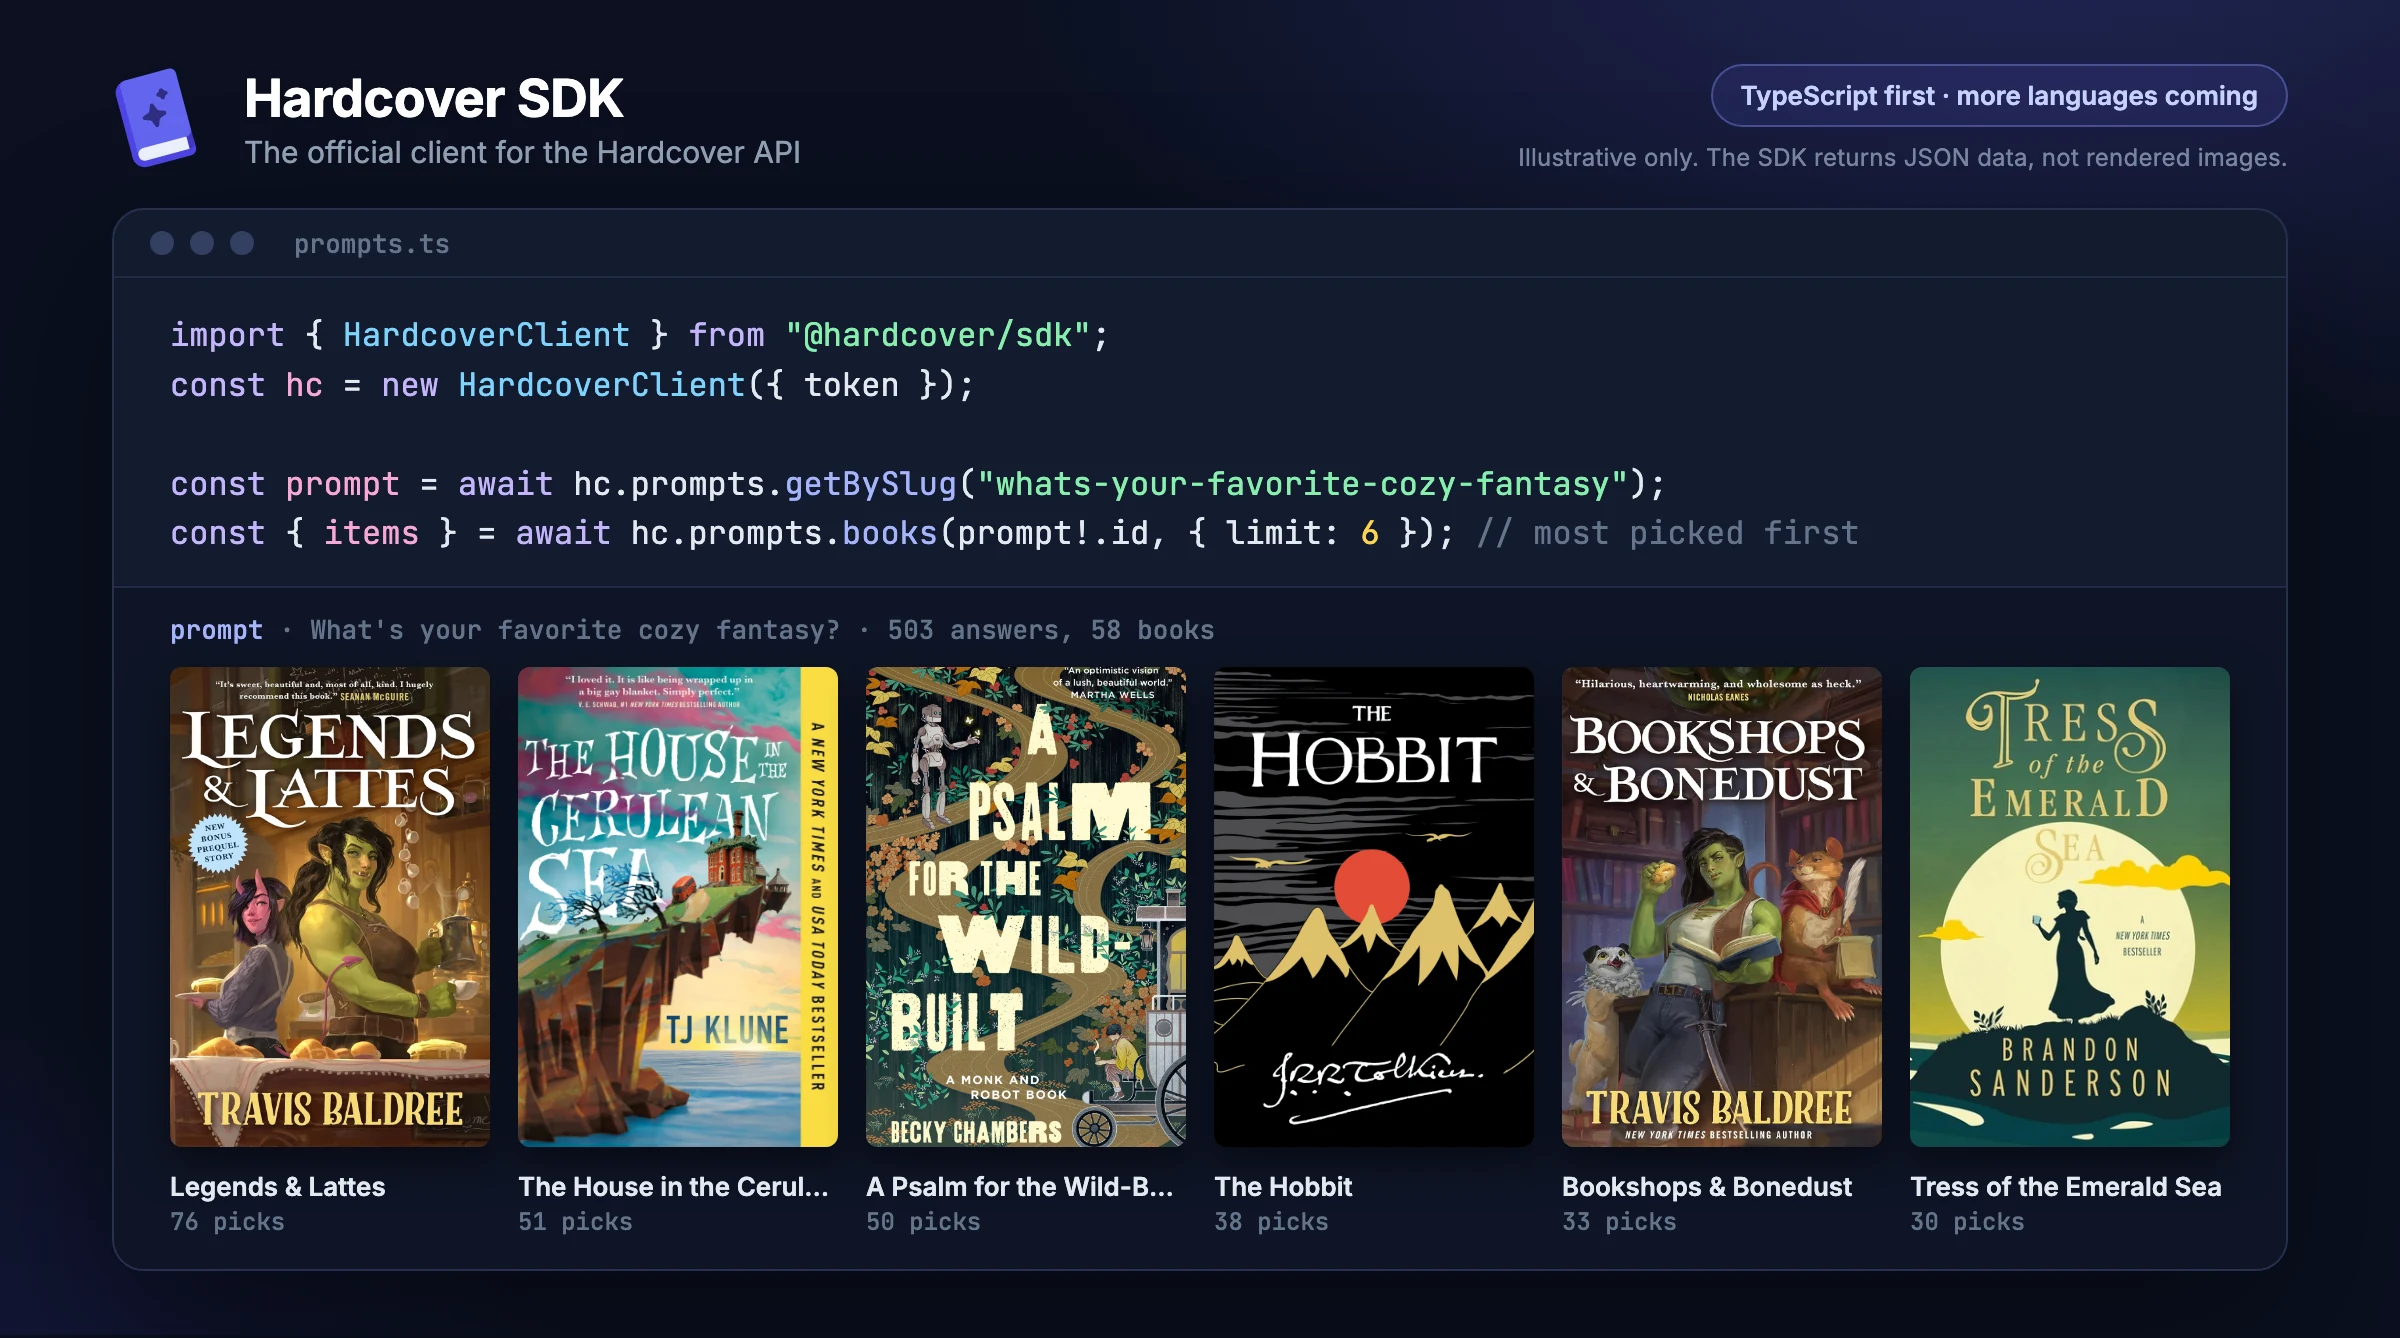
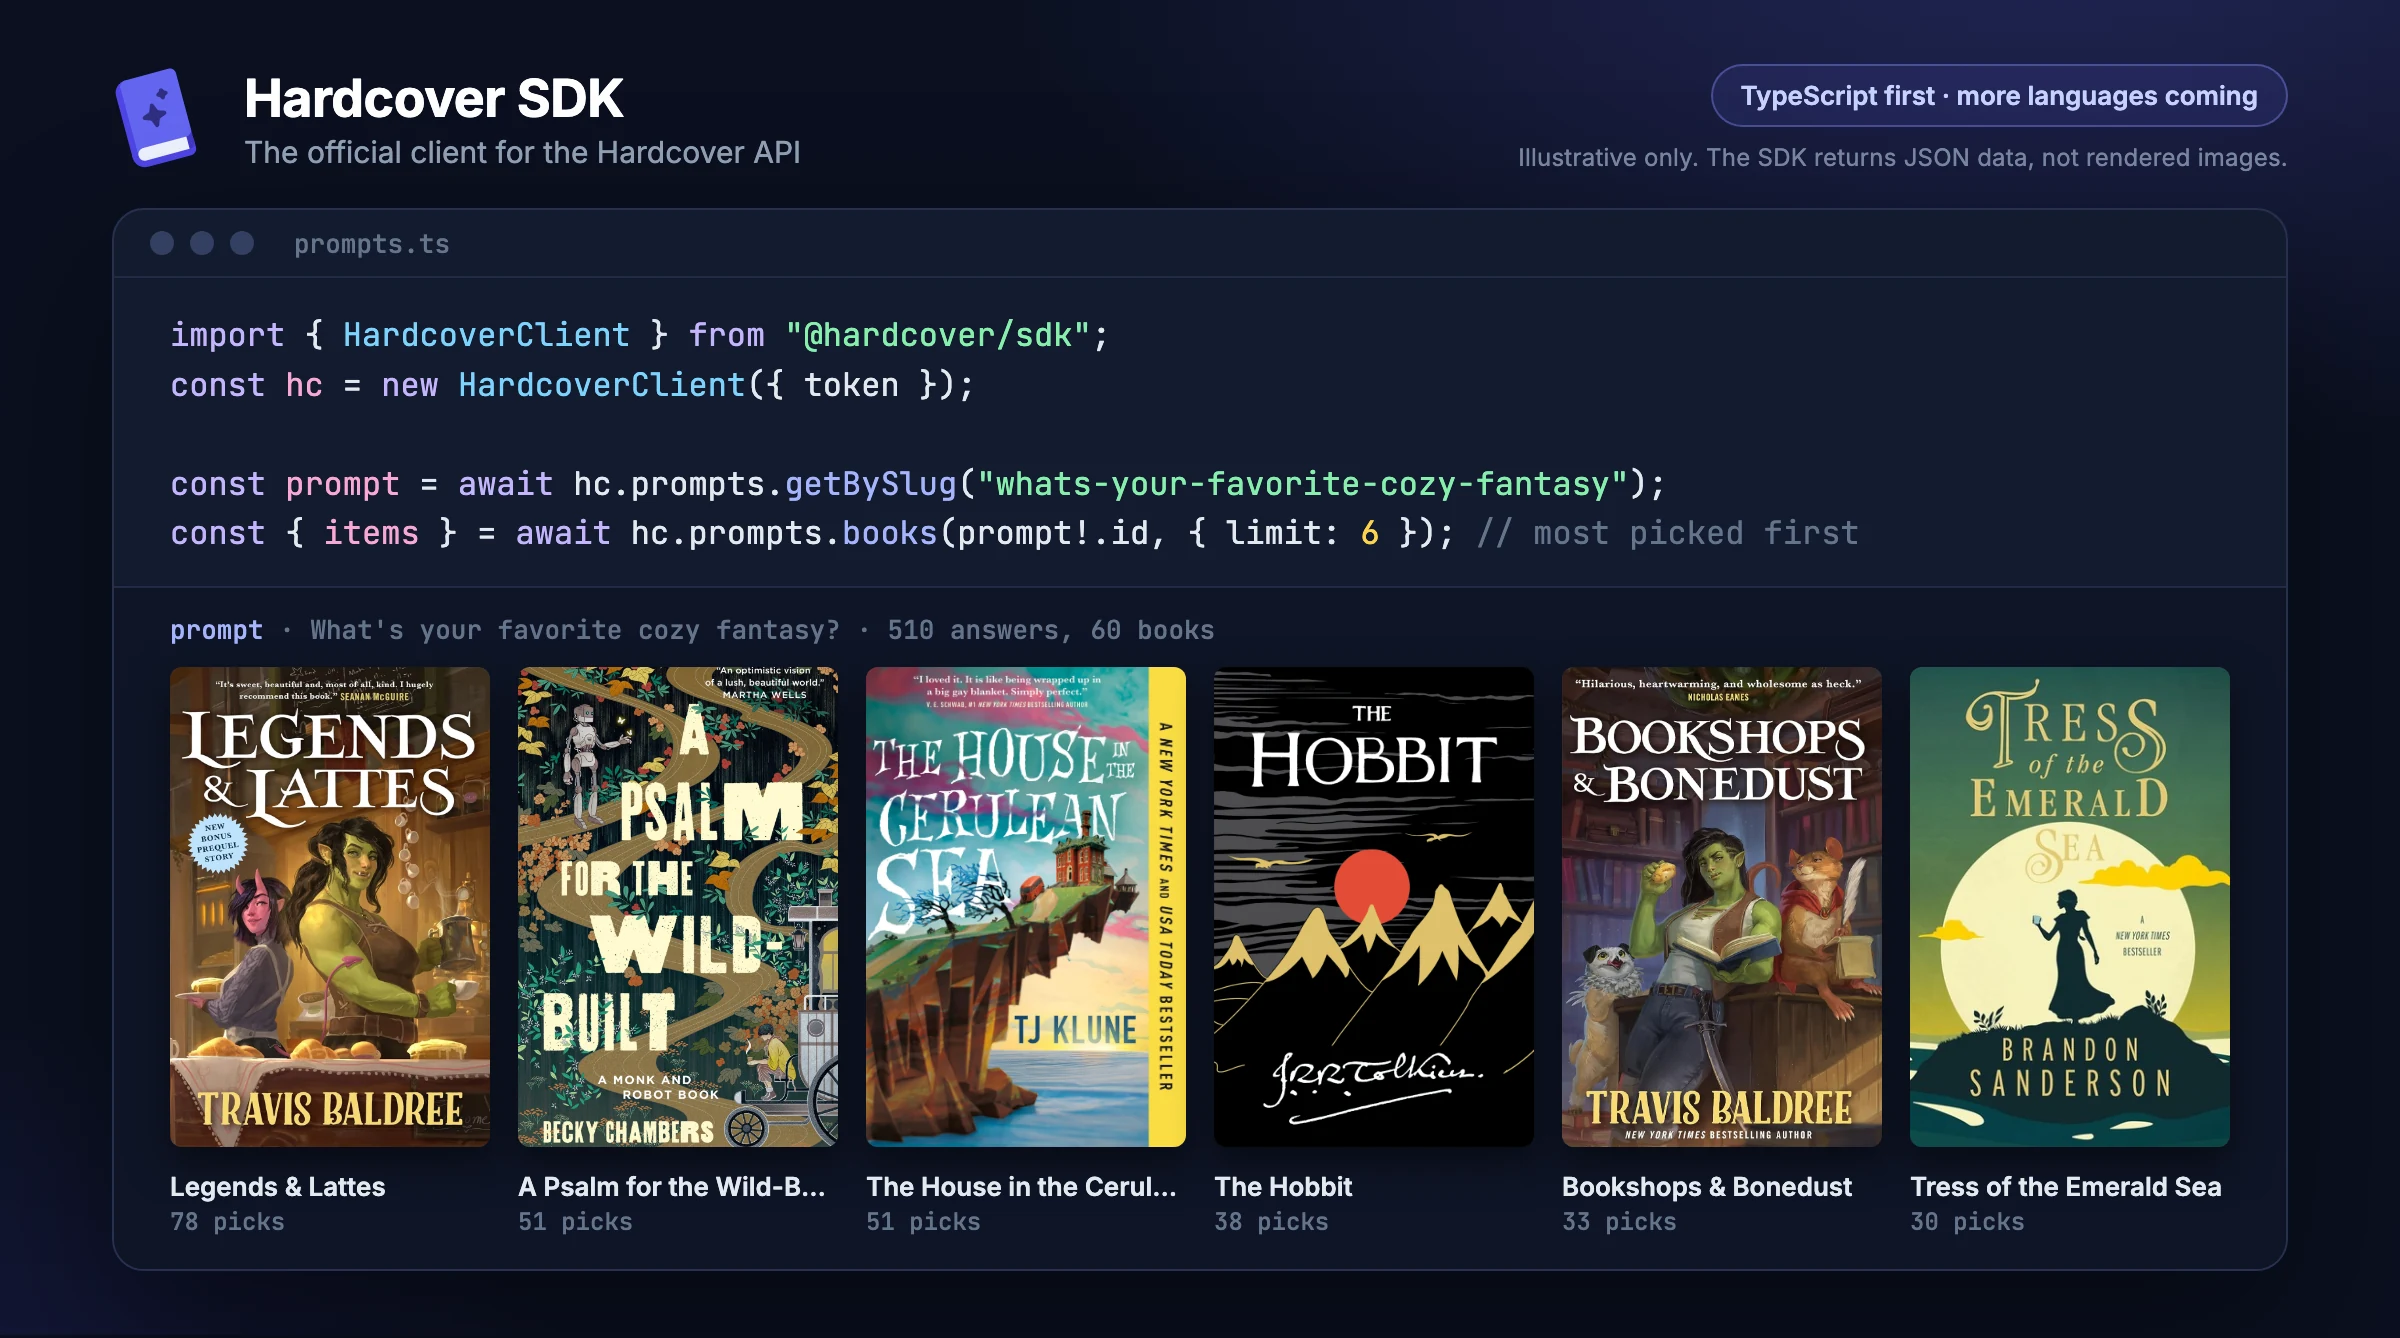
Render the prompts teaser from live data

Changed region(s): [[0.2188, 0.4903, 0.5, 0.9193]]

diff --git a/packages/typescript/teasers/README.md b/packages/typescript/teasers/README.md
@@ -2,8 +2,7 @@
 
 Images of real SDK calls, for the README, docs and posts. Each shows a snippet
 exactly as it runs (type-checked against the SDK) and a rendering of what it
-returned from the live API on 2026-10-20 (prompts: a local copy of it, until
-a prod token with `read:prompts` is available).
+returned from the live API on 2026-10-20.
 
 They're illustrative: the SDK returns JSON data, and the covers and cards are
 drawn from it for display. Every image says so.
